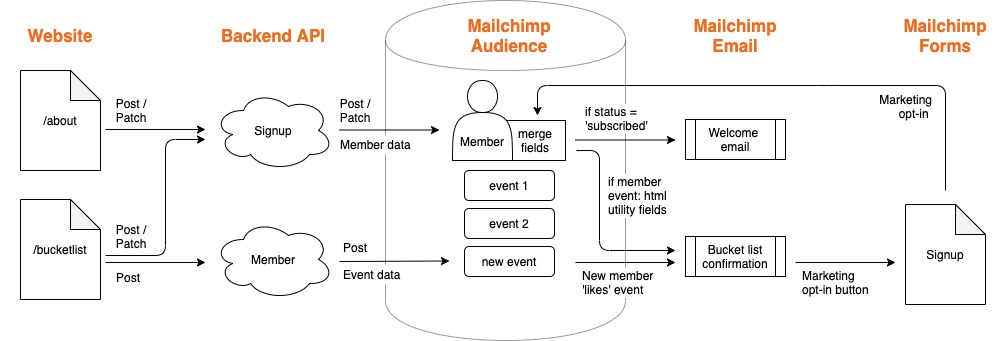
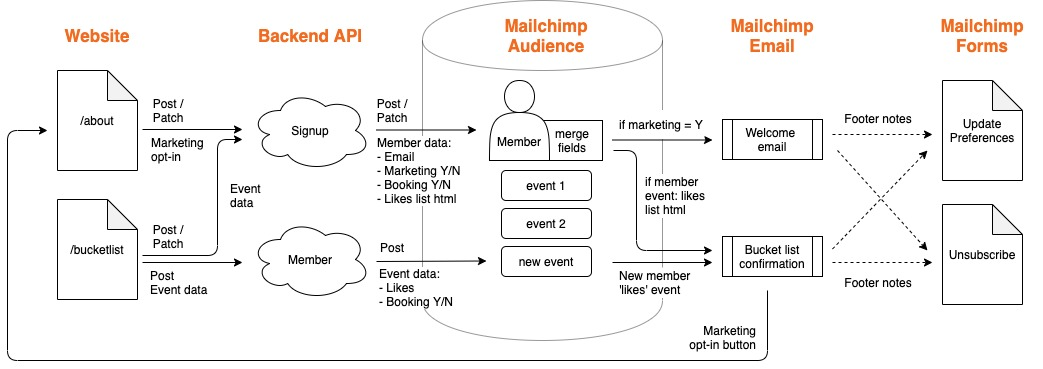
Track marketing opt-in with merge field instead of status

diff --git a/api/resources/signup.py b/api/resources/signup.py
@@ -10,7 +10,8 @@ from resources.utils.interests import create_interests_query
 parser = reqparse.RequestParser()
 parser.add_argument('email', type=str, required=True)
 parser.add_argument('location', type=str, required=False)
-parser.add_argument('status', type=str, required=False)
+parser.add_argument('status', type=str, required=False, default='subscribed')
+parser.add_argument('marketing', type=bool, required=False)
 parser.add_argument('likes', type=int, required=False, action='append')
 parser.add_argument('flights', type=bool, required=False, default=False)
 parser.add_argument('local_transport', type=bool, required=False, default=False)
@@ -35,6 +36,10 @@ class Signup(Resource):
                    'merge_fields': {
                        "SIGNUP": args['location']
                    }}
+
+        # if opt-in for marketing provided, update that merge field
+        if args['marketing']:
+            payload['merge_fields']['MARKETING'] = 'Yes, sign me up!'
 
         # if likes are provided, the booking arguments should also be there
         if args['likes']:
@@ -78,10 +83,11 @@ class Signup(Resource):
     def patch(self):
         args = parser.parse_args()
 
-        if args['status']:
-            payload = {
-                "status": args['status']
-            }
+        # default status should be 'subscribed'. Otherwise no emails can be sent.
+        payload = {"status": args['status']}
+
+        if args['marketing']:
+            payload = {"merge_fields": {'MARKETING': 'Yes, sign me up!'}}
         # if likes are provided, the booking arguments should also be there
         elif args['likes']:
             payload = {"merge_fields": {'UTIL_HTML': create_list_of_likes(self.df, args['likes'])}}
@@ -94,9 +100,6 @@ class Signup(Resource):
             }
             payload['merge_fields']['BOOKING'] = 'Yes' if args['none'] == False else 'No'
             payload['interests'] = create_interests_query(user_interests)
-        # hacky code. Should return error if one of these arguments is not provided
-        else:
-            payload = None
 
         headers = {'content-type': "application/json"}
         # Use auth for Basic authentication
@@ -104,5 +107,5 @@ class Signup(Resource):
                                                                                  args['email']),
                   json=payload, headers=headers, auth=('randomstring', self.key['api_key']))
 
-        # always succesfull given valid status input, so return doesn't matter
+        # always successful given valid status input, so return doesn't matter
         return r.status_code
